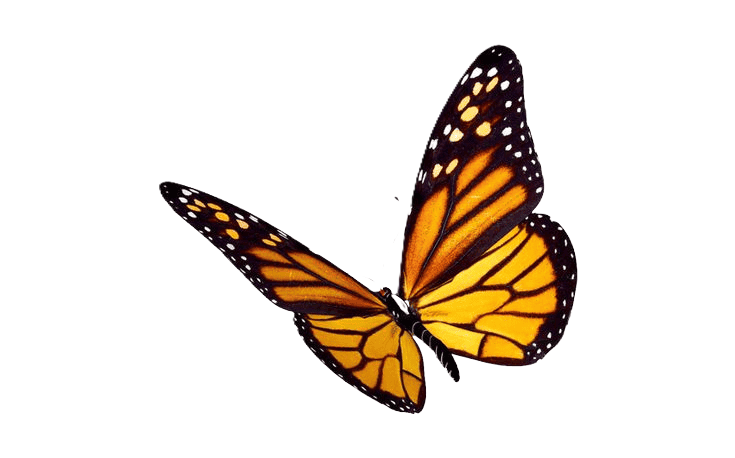
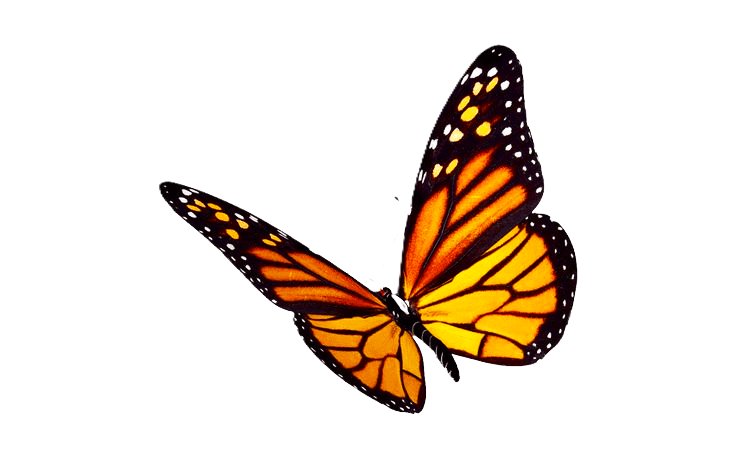
feat: adjusted the placements of the 2 butterflies in the hero section

Changed region(s): [[0.3293, 0.1528, 0.7483, 0.8865], [0.2993, 0.4585, 0.3293, 0.5197], [0.2395, 0.4279, 0.2993, 0.4585]]

diff --git a/src/app/page.tsx b/src/app/page.tsx
@@ -205,16 +205,16 @@ export default function Home() {
           mix-blend-mode: multiply;
         }
         .hero-butterfly-orange2 {
-          left: 5%;
-          bottom: 22%;
-          width: clamp(160px, 18vw, 250px);
+          left: 8%;
+          bottom: 25%;
+          width: clamp(100px, 16vw, 215px);
           height: auto;
           transform: rotate(-10deg);
           animation: butterflyFloat 6s ease-in-out infinite;
         }
         .hero-butterfly-orange {
-          right: 8%;
-          top: 10%;
+          right: 1%;
+          top: 4%;
           width: clamp(180px, 20vw, 280px);
           height: auto;
           transform: rotate(5deg);
@@ -867,7 +867,7 @@ export default function Home() {
 
         {/* Butterfly decorations */}
         <div className="hero-butterfly hero-butterfly-orange2">
-          <Image src="/orange2.png" alt="" width={250} height={250} unoptimized style={{ background: 'transparent' }} />
+          <Image src="/orange2.png" alt="" width={225} height={225} unoptimized style={{ background: 'transparent' }} />
         </div>
         <div className="hero-butterfly hero-butterfly-orange">
           <Image src="/orange.png" alt="" width={280} height={280} unoptimized style={{ background: 'transparent' }} />
